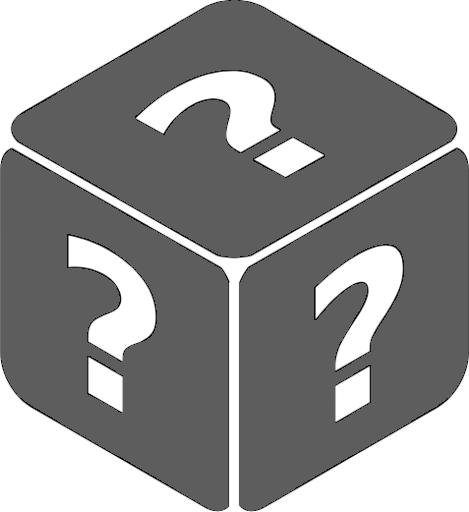
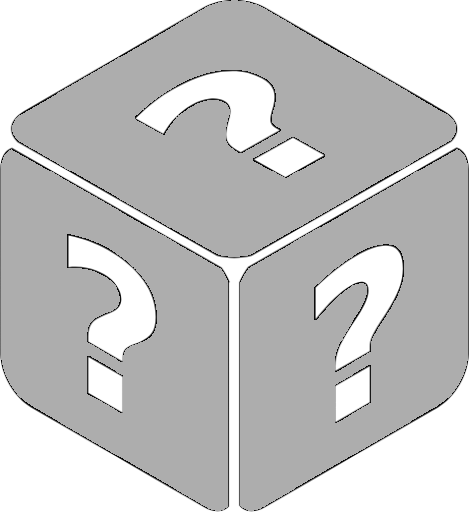
change reroll btn design, brighten the btns

diff --git a/css.css b/css.css
@@ -113,25 +113,33 @@ body {
 }
 
 #displayedGameImage {
-    max-width: 300px; /* Set a maximum width for the displayed image */
-    margin: 20px auto; /* Center the image */
+    max-width: 400px; /* Set a maximum width for the displayed image */
+    position: relative;
+    margin-top: 150px;
+    /*margin: 20px auto;  Center the image */
     display: block; /* Ensure it behaves as a block element */
     transition: opacity 0.3s ease, transform 0.3s ease; /* Optional: smooth transition */
     transform: scale(1.5); /* Make the displayed image larger */
     height: auto; /* Maintain aspect ratio */
-    z-index: 20;
+    z-index: 1;
     border-radius: 5px;
 }
 
 #rerollBtnImage {
-    width: 180px;
-    height: 180px;
+    position: relative; /* Position it inside #displayedGameImage */
+    left: 350px;
+    top: 25px;
+    width: 150px;
+    height: 150px;
     display: none; /* Make the image a block element */
     margin: 0 auto; /* Center horizontally */
     max-width: 100%; /* Responsive image */
-    margin-top: 80px;
+    margin-top: 50px;
     transition: transform 0.3s ease;
     cursor: pointer;
+    z-index: 20;
+
+    animation: rotateStep 20s infinite; /* Infinite rotation every 2 seconds */
 }
 
 #rerollBtnImage:hover {
